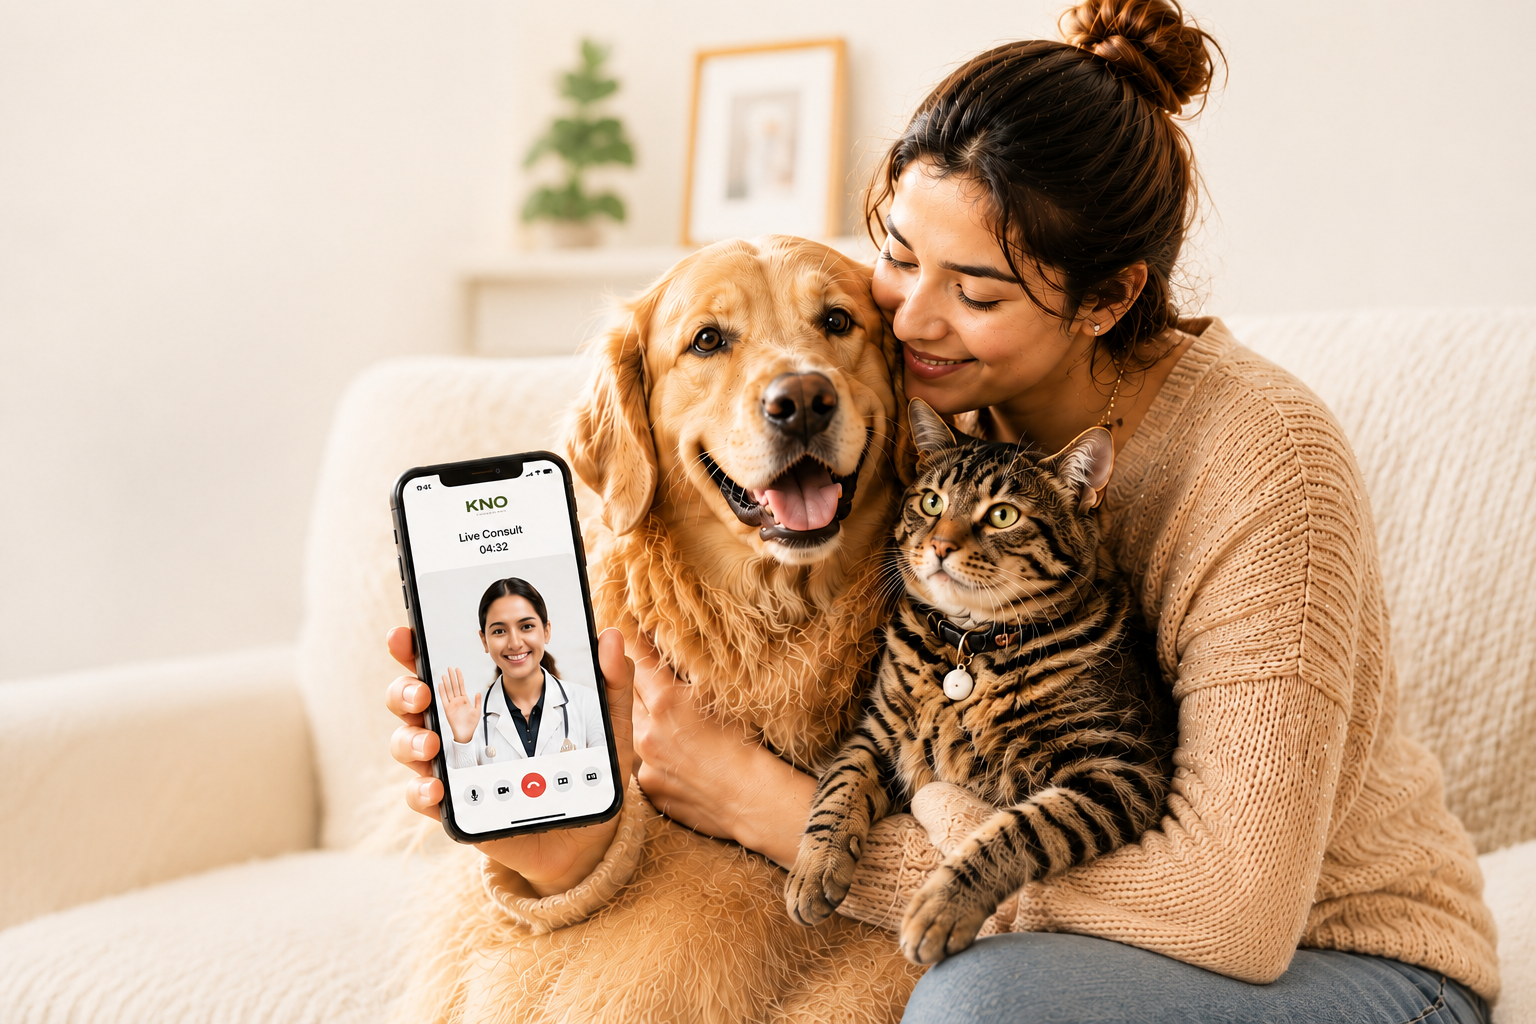
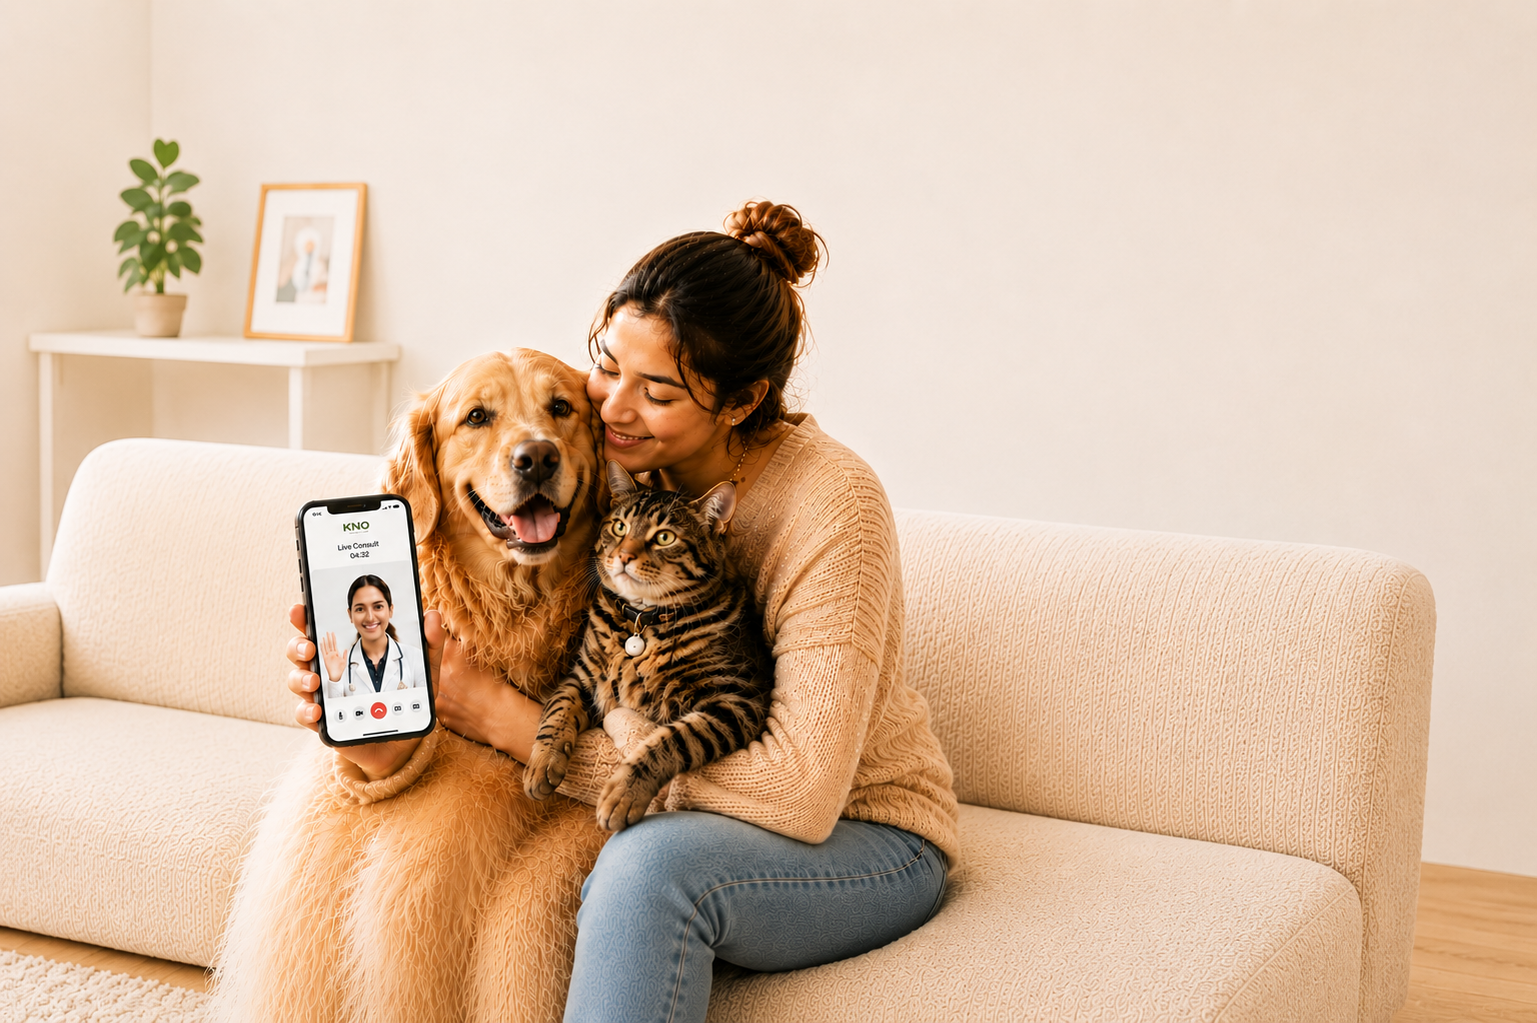
fixed images

diff --git a/src/components/sections/pricing.tsx b/src/components/sections/pricing.tsx
@@ -87,7 +87,7 @@ export function Pricing() {
                 width={654}
                 height={366}
                 sizes="(min-width: 1024px) 654px, 160vw"
-                className="absolute left-[-58.23%] top-0 h-full w-[158.23%] max-w-none object-cover"
+                className="absolute left-0 top-0 h-full w-[96%] max-w-none object-contain"
               />
             </div>
             <blockquote className="mt-4 rounded-quote bg-kno-accent px-8 py-7 lg:absolute lg:inset-x-0 lg:bottom-0 lg:mt-0 lg:h-[167px]">

diff --git a/src/components/sections/hero.tsx b/src/components/sections/hero.tsx
@@ -74,7 +74,7 @@ export function Hero() {
         />
         <div
           aria-hidden
-          className="absolute inset-y-0 left-0 w-[45.5%] bg-gradient-to-r from-kno-cream to-transparent"
+          className="absolute inset-y-0 left-0 w-[20.5%] bg-gradient-to-r from-kno-cream to-transparent"
         />
       </div>
 
